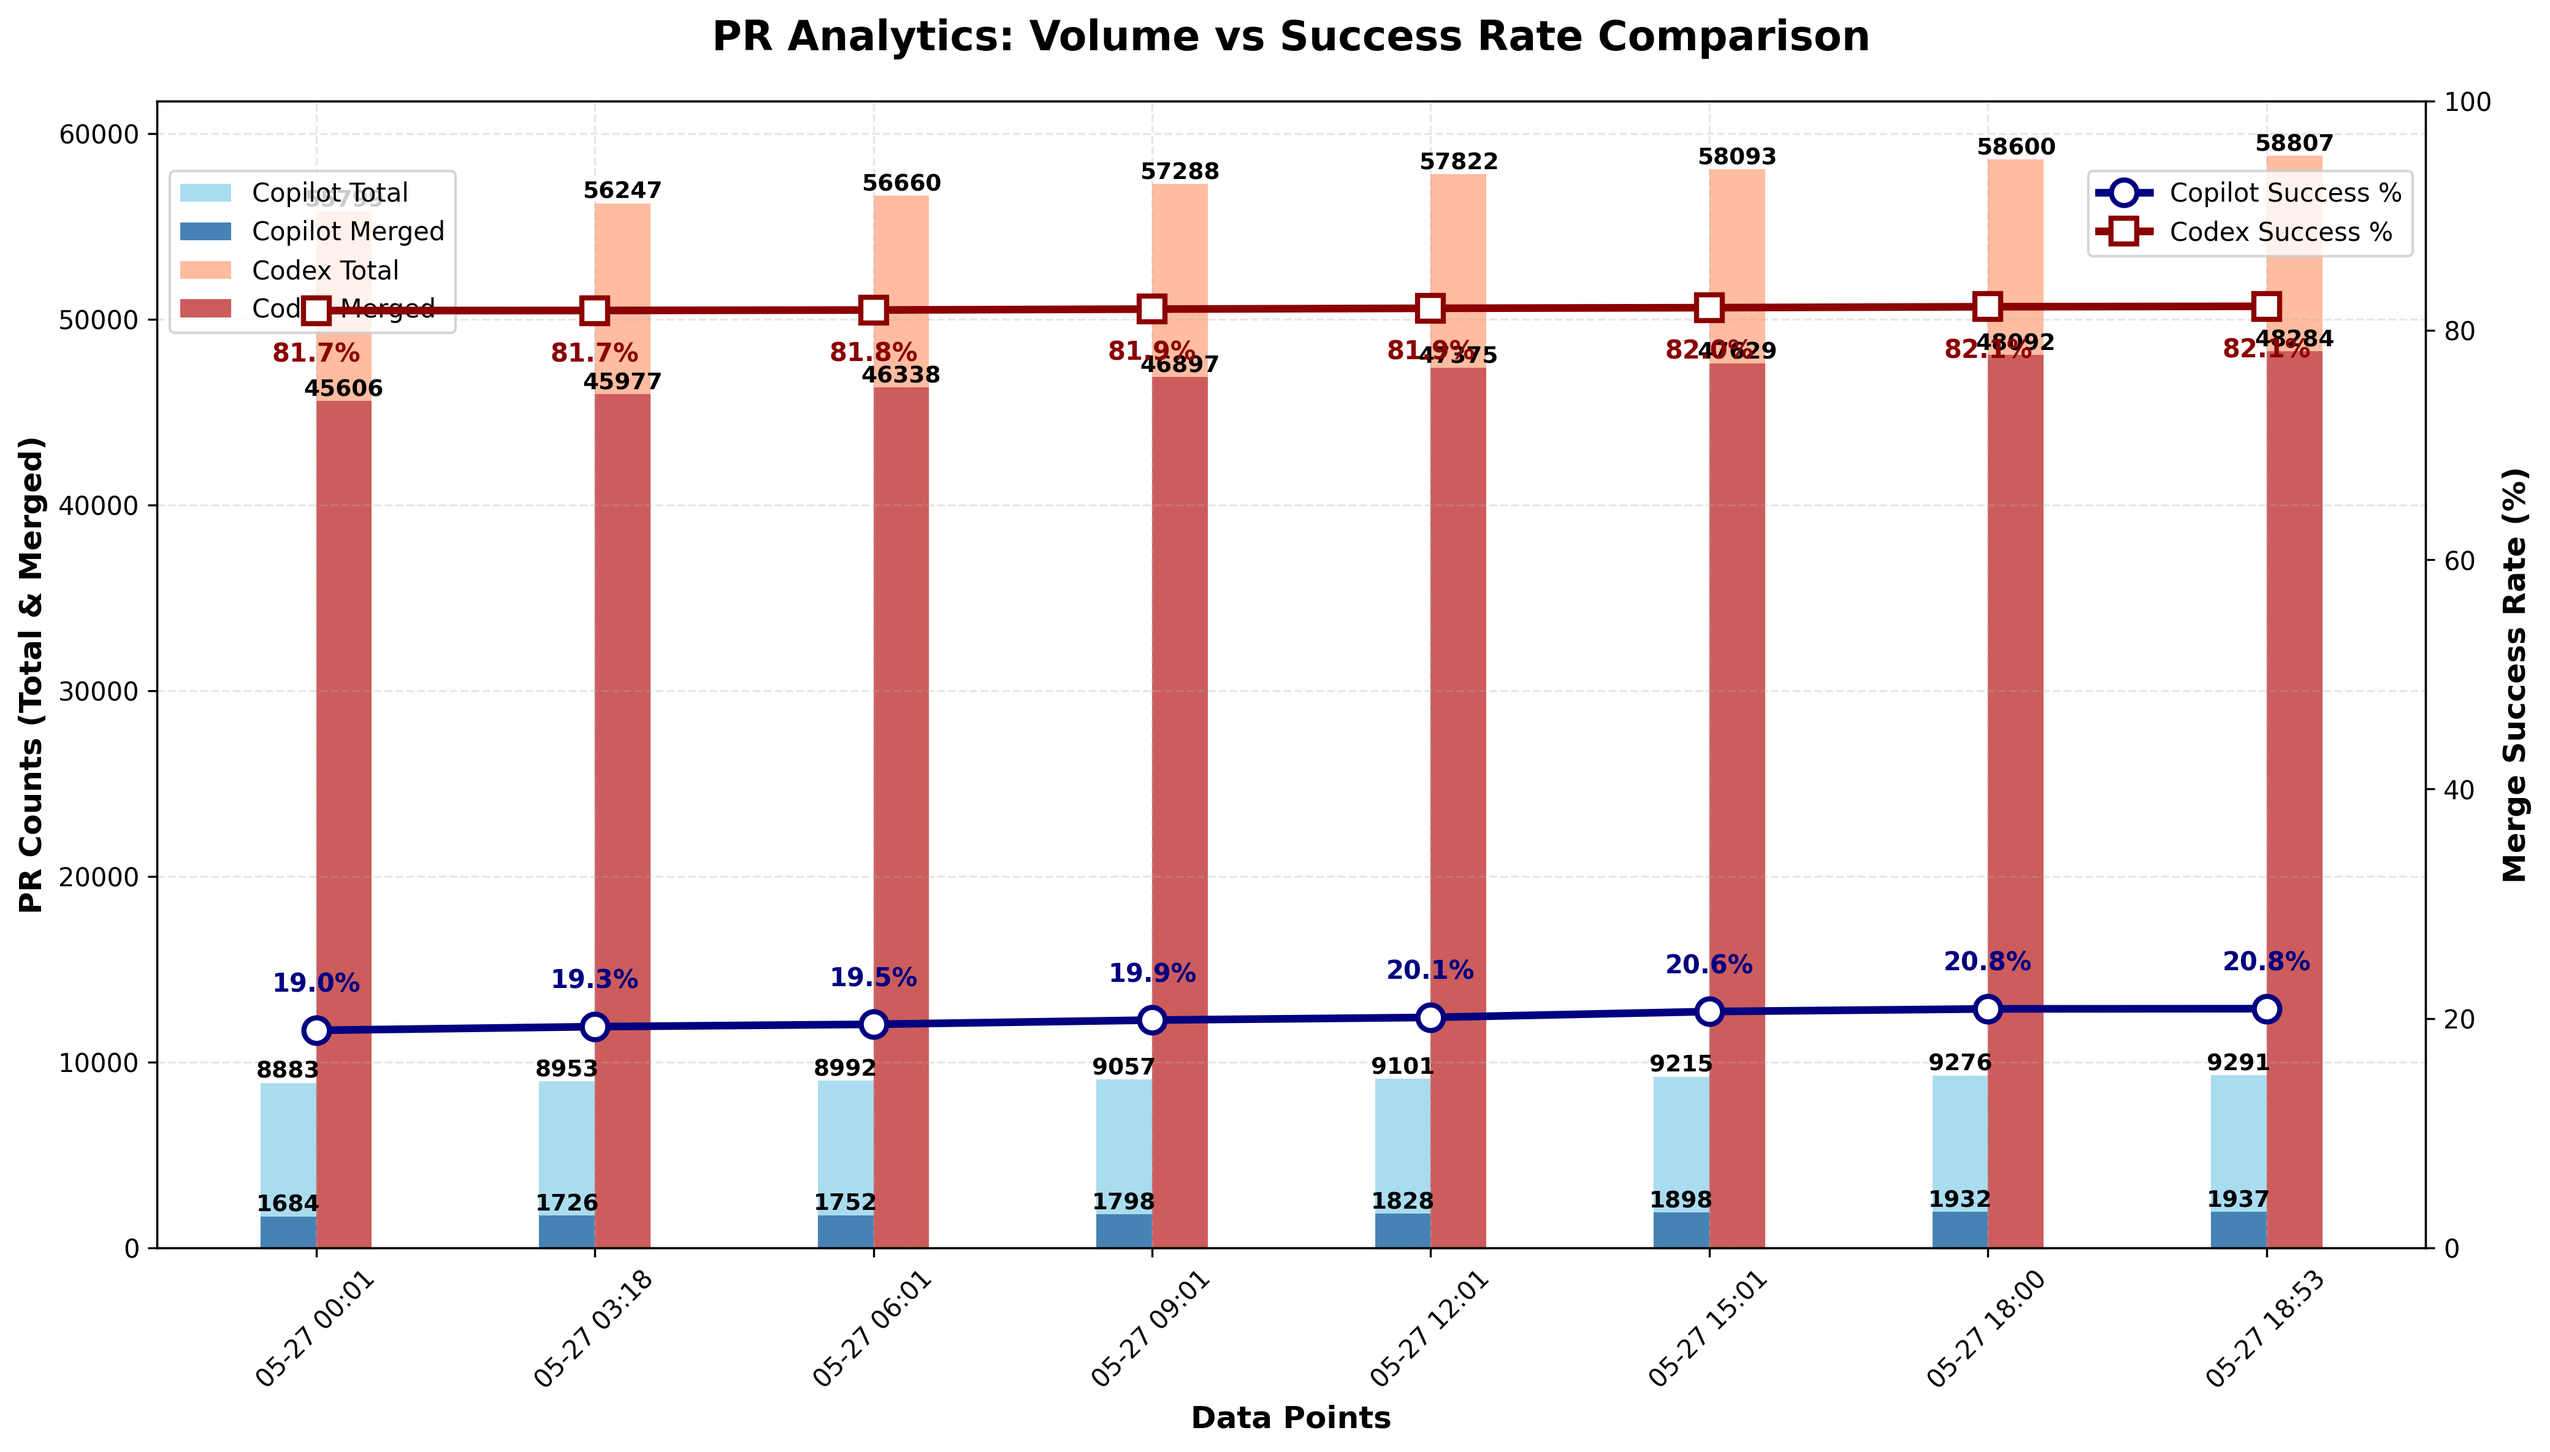
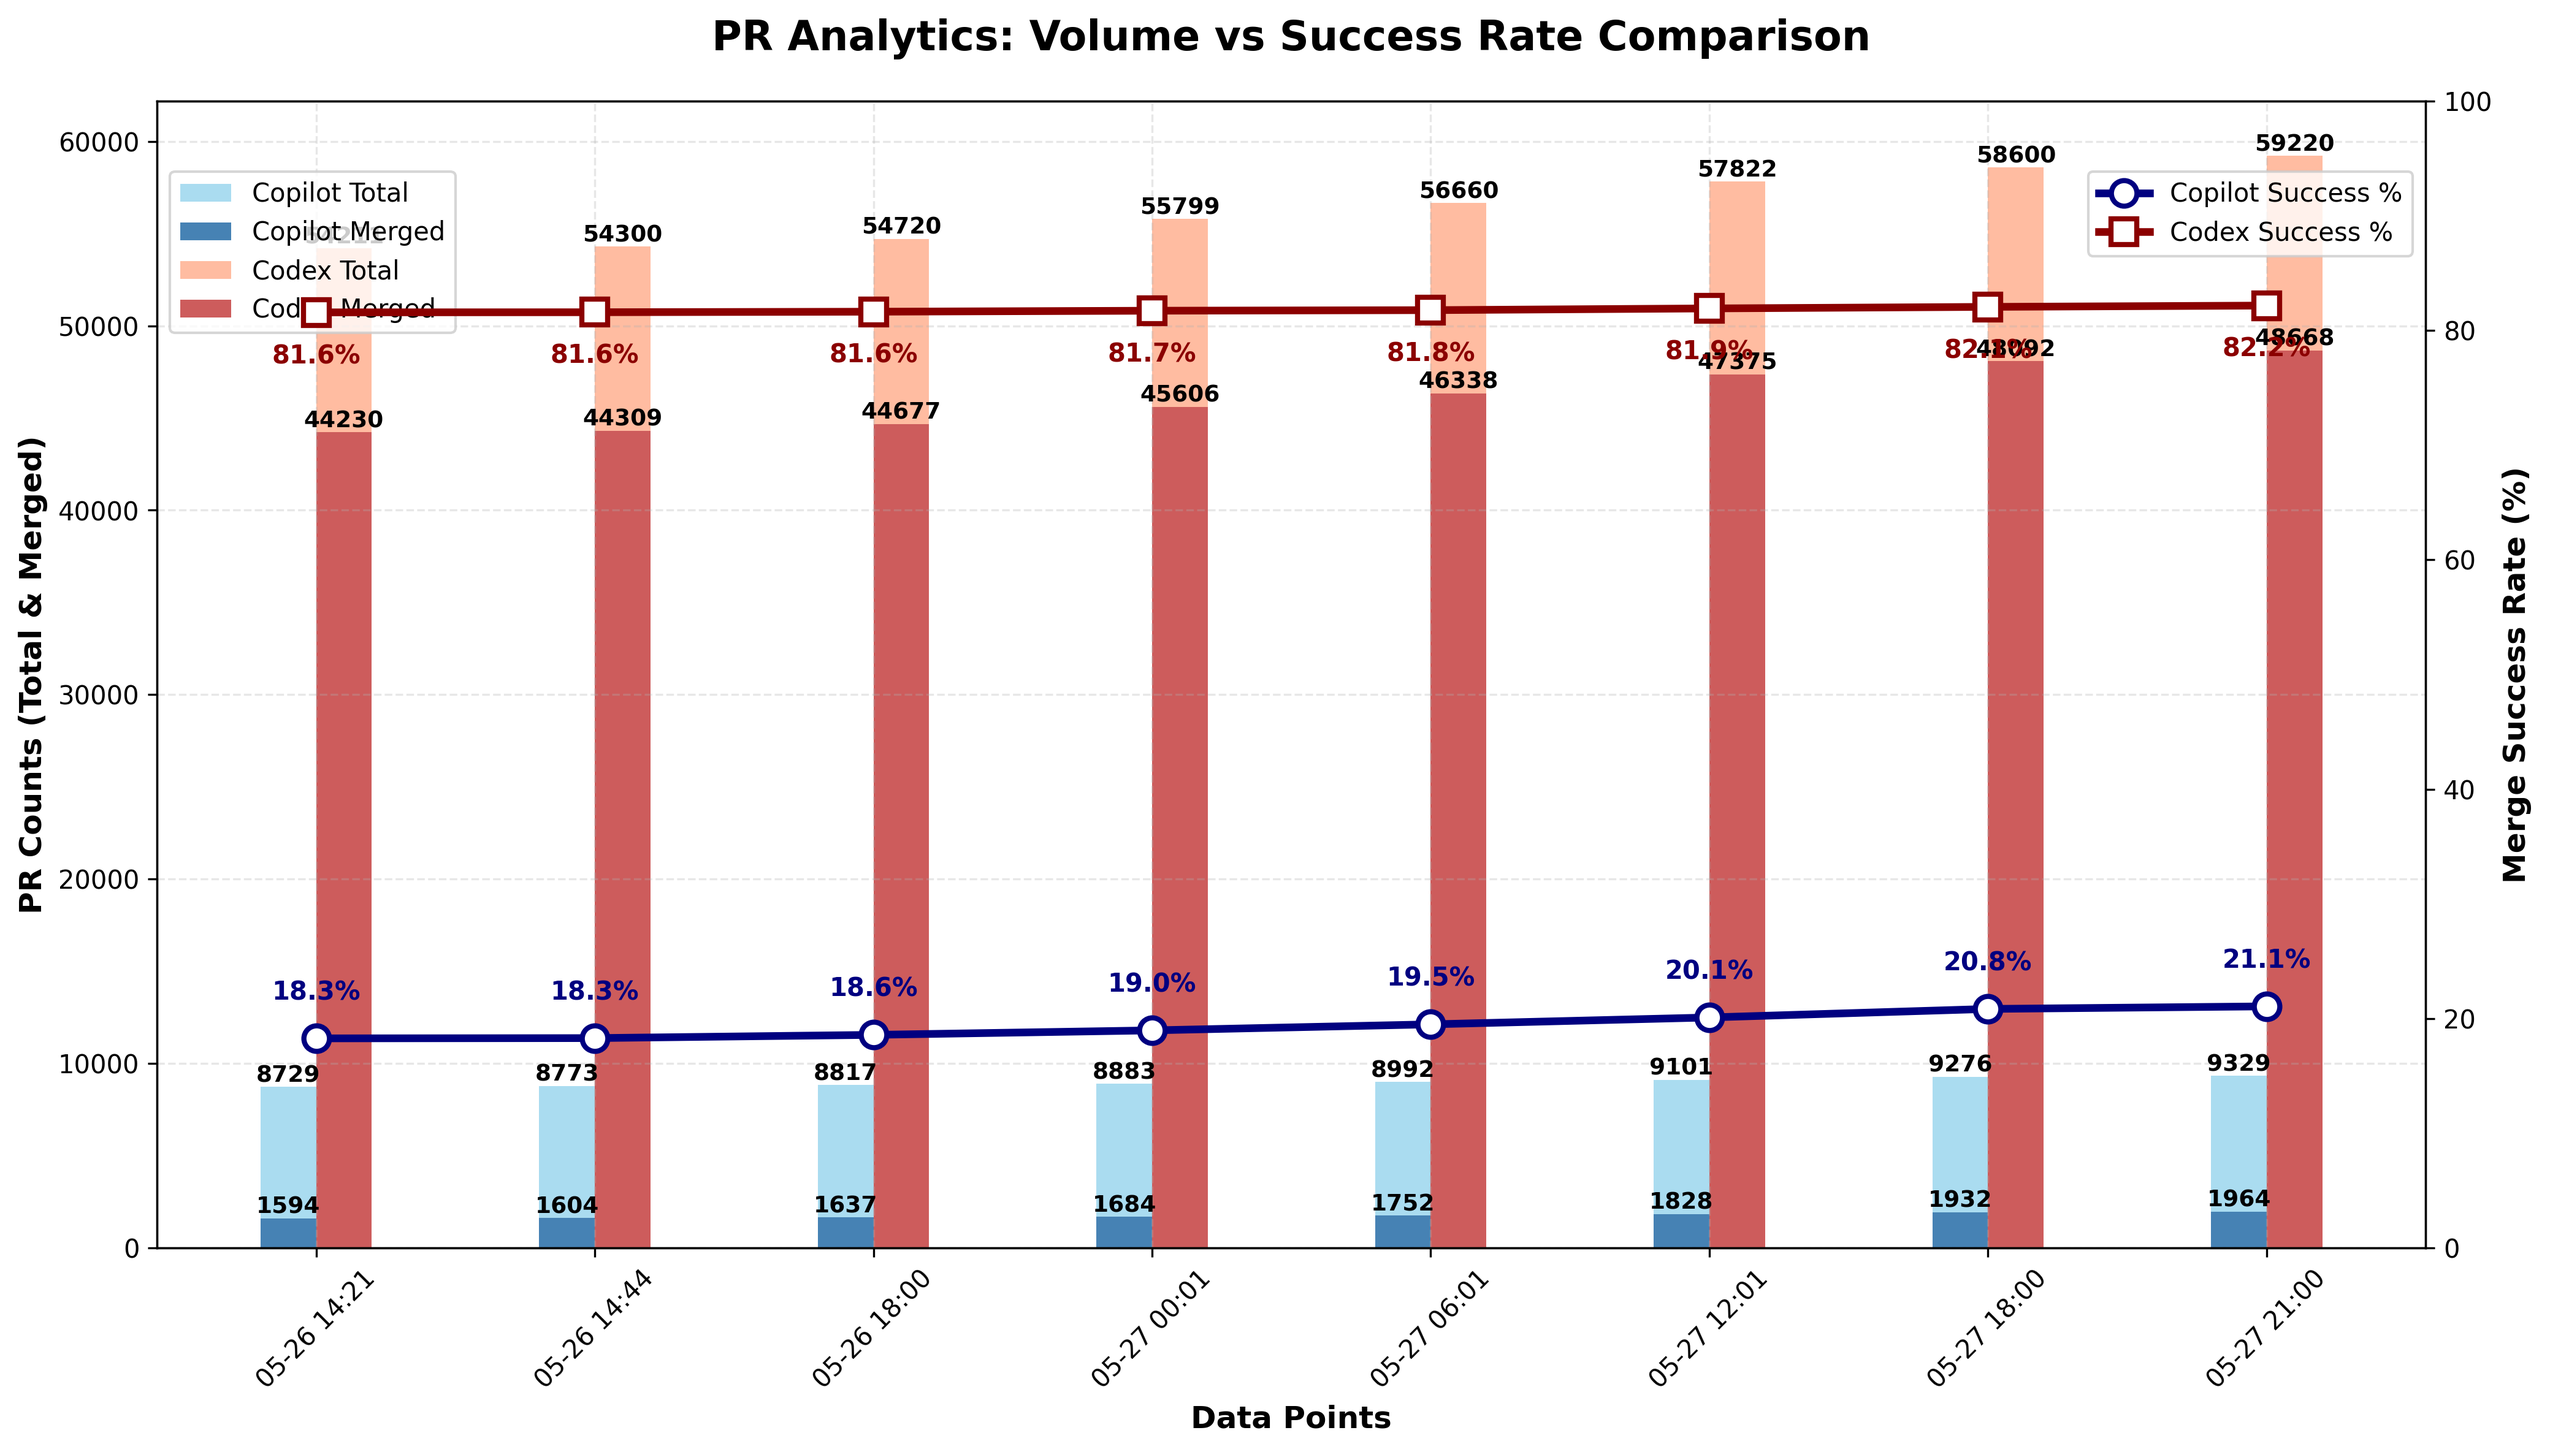
chore: update PR‑approval chart

diff --git a/docs/index.html b/docs/index.html
@@ -44,22 +44,22 @@
                 <tbody>
                     <tr>
                         <td>Copilot</td>
-                        <td>9,291</td>
-                        <td>1,937</td>
-                        <td>20.85%</td>
+                        <td>9,329</td>
+                        <td>1,964</td>
+                        <td>21.05%</td>
                     </tr>
                     <tr>
                         <td>Codex</td>
-                        <td>58,807</td>
-                        <td>48,284</td>
-                        <td>82.11%</td>
+                        <td>59,220</td>
+                        <td>48,668</td>
+                        <td>82.18%</td>
                     </tr>
                 </tbody>
             </table>
         </section>
 
         <footer>
-            <p>Last updated: <span id="last-updated">May 27, 2025 20:30 UTC</span></p>
+            <p>Last updated: <span id="last-updated">May 27, 2025 21:00 UTC</span></p>
             <p><a href="https://github.com/aavetis/ai-pr-watcher">View on GitHub</a></p>
         </footer>
     </div>

diff --git a/README.md b/README.md
@@ -19,5 +19,5 @@ Explore the GitHub search queries used:
 
 | Project | Total PRs | Merged PRs | Merge Rate |
 | ------- | --------- | ---------- | ---------- |
-| Copilot | 9,291 | 1,937 | 20.85% |
-| Codex   | 58,807 | 48,284 | 82.11% |
+| Copilot | 9,329 | 1,964 | 21.05% |
+| Codex   | 59,220 | 48,668 | 82.18% |
